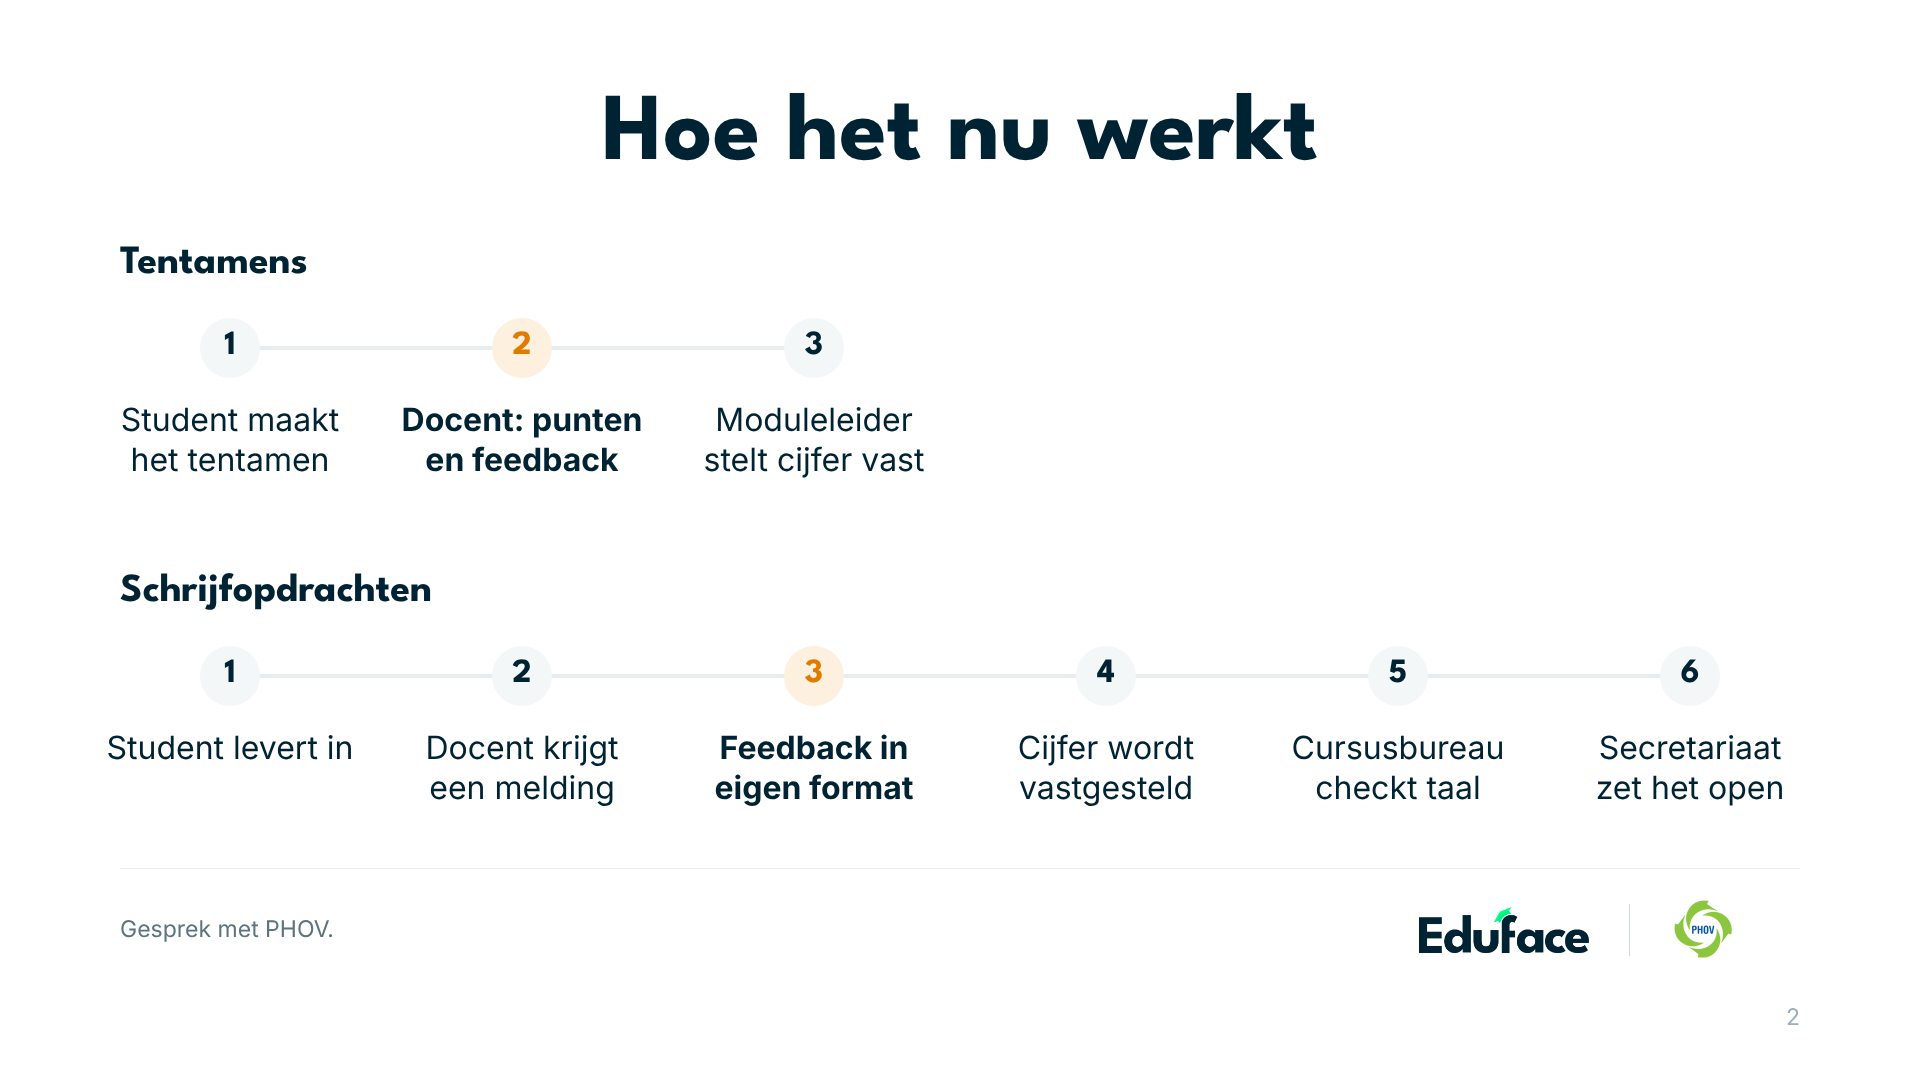
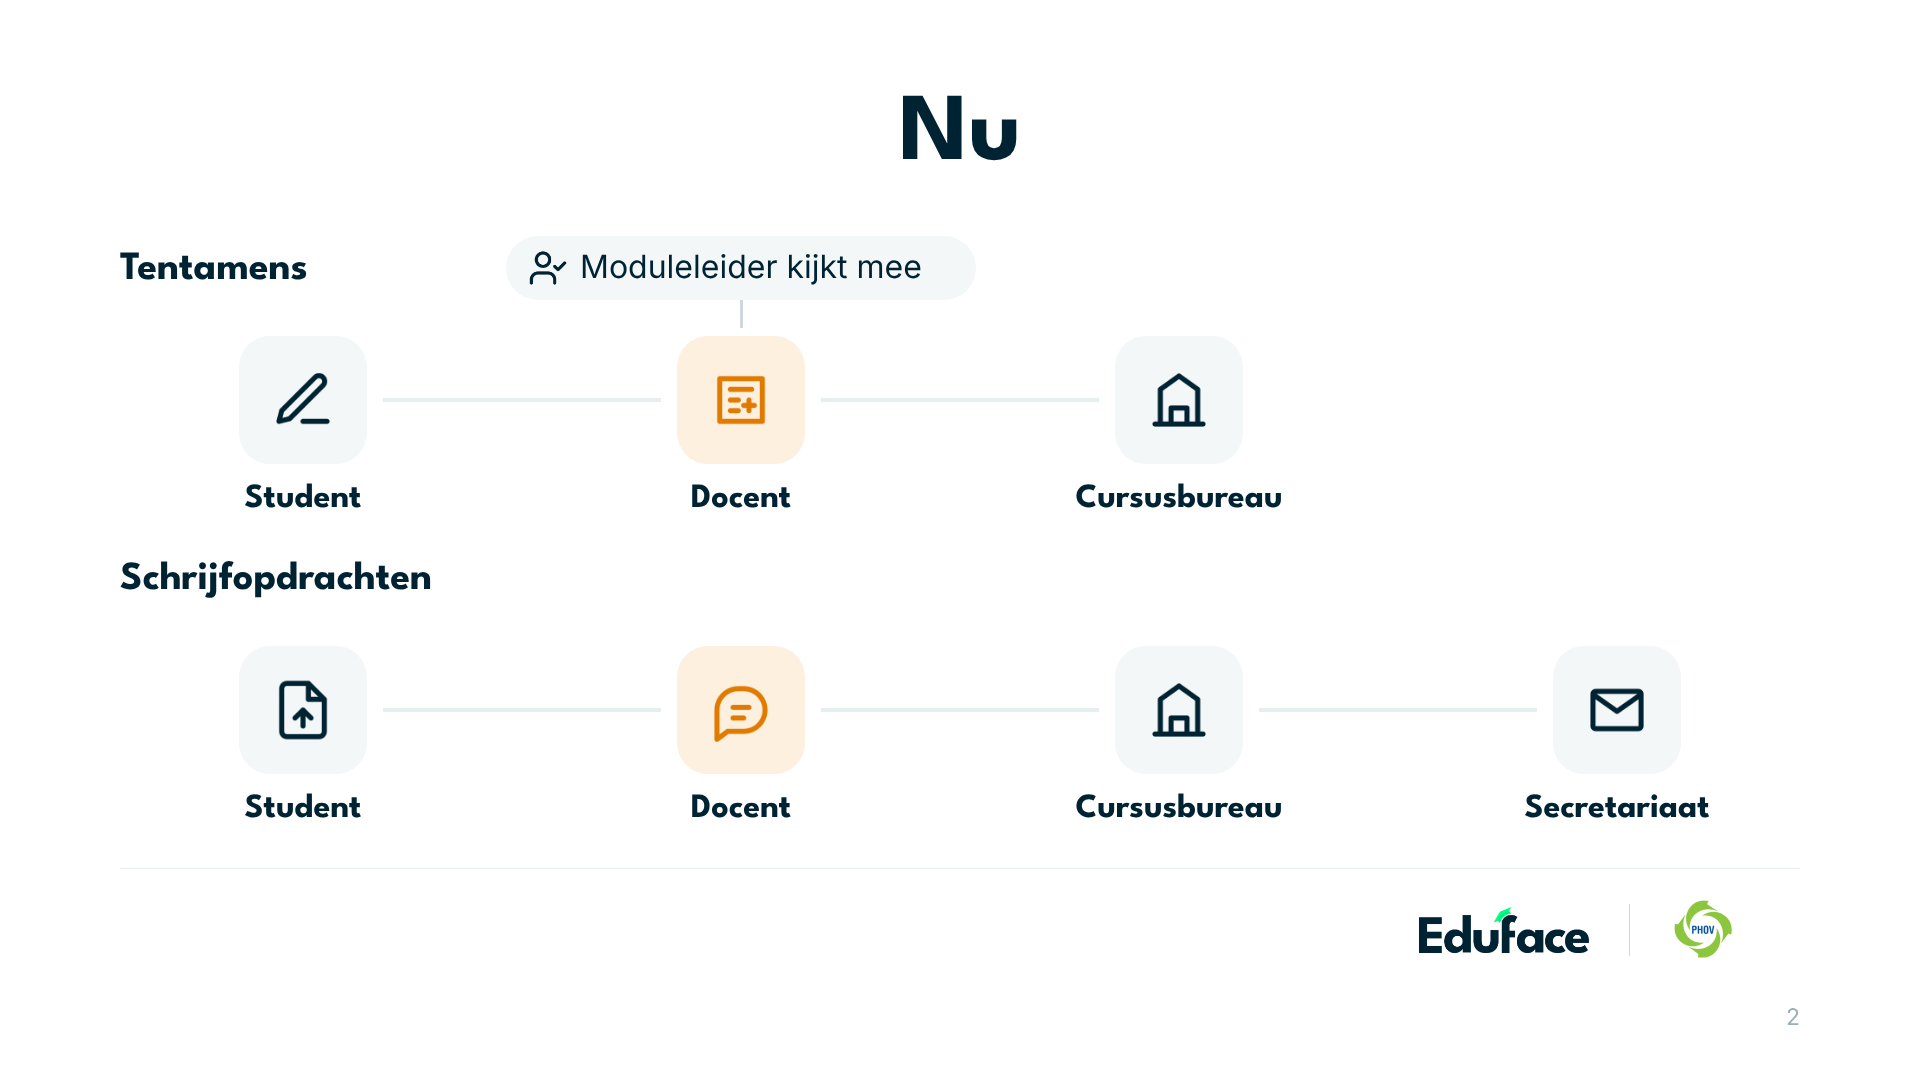
PHOV-deck: slide 2 visueel, titel 'Nu', stappen ingekort
Claude-Session: https://claude.ai/code/session_011t24oQakExxjssoBJFRTe8

diff --git a/GTM/Accounts/phov/deck/preview/02-nu.html b/GTM/Accounts/phov/deck/preview/02-nu.html
@@ -1,9 +1,1 @@
-<!DOCTYPE html><html lang="nl"><head><meta charset="utf-8"><link href="https://fonts.googleapis.com/css2?family=League+Spartan:wght@400;600;700;800&family=Inter:wght@400;500;600;700&display=swap" rel="stylesheet"><style>*{margin:0;padding:0;box-sizing:border-box}html,body{background:#fff}.slide{position:relative;width:1920px;height:1080px;overflow:hidden;background:#fff}</style></head><body><div class="slide"><div style="position:absolute;left:120.0px;top:88.0px;width:1680.0px;height:120.0px;font-family:'League Spartan',sans-serif;font-size:96px;font-weight:700;color:#002333;text-align:center;line-height:1.0;white-space:pre-line">Hoe het nu werkt</div><div style="position:absolute;left:120.0px;top:244.0px;width:600.0px;height:44.0px;font-family:'League Spartan',sans-serif;font-size:40px;font-weight:700;color:#002333;text-align:left;line-height:1.0;white-space:pre-line">Tentamens</div><div style="position:absolute;left:230.0px;top:346.0px;width:584.0px;height:4.0px;background:#E7EEF0;border-radius:0.0px"></div><div style="position:absolute;left:200.0px;top:318.0px;width:60.0px;height:60.0px;background:#F3F7F8;border-radius:50%;box-shadow:0 0 0 0px #002333"></div><div style="position:absolute;left:200.0px;top:329.0px;width:60.0px;height:40.0px;font-family:'League Spartan',sans-serif;font-size:34px;font-weight:700;color:#002333;text-align:center;line-height:1.0;white-space:pre-line">1</div><div style="position:absolute;left:90.0px;top:400.0px;width:280.0px;height:84.0px;font-family:'Inter',sans-serif;font-size:32px;font-weight:400;color:#002333;text-align:center;line-height:1.25;white-space:pre-line">Student maakt
-het tentamen</div><div style="position:absolute;left:492.0px;top:318.0px;width:60.0px;height:60.0px;background:#FDF0DF;border-radius:50%;box-shadow:0 0 0 0px #E07B00"></div><div style="position:absolute;left:492.0px;top:329.0px;width:60.0px;height:40.0px;font-family:'League Spartan',sans-serif;font-size:34px;font-weight:700;color:#E07B00;text-align:center;line-height:1.0;white-space:pre-line">2</div><div style="position:absolute;left:382.0px;top:400.0px;width:280.0px;height:84.0px;font-family:'Inter',sans-serif;font-size:32px;font-weight:700;color:#002333;text-align:center;line-height:1.25;white-space:pre-line">Docent: punten
-en feedback</div><div style="position:absolute;left:784.0px;top:318.0px;width:60.0px;height:60.0px;background:#F3F7F8;border-radius:50%;box-shadow:0 0 0 0px #002333"></div><div style="position:absolute;left:784.0px;top:329.0px;width:60.0px;height:40.0px;font-family:'League Spartan',sans-serif;font-size:34px;font-weight:700;color:#002333;text-align:center;line-height:1.0;white-space:pre-line">3</div><div style="position:absolute;left:674.0px;top:400.0px;width:280.0px;height:84.0px;font-family:'Inter',sans-serif;font-size:32px;font-weight:400;color:#002333;text-align:center;line-height:1.25;white-space:pre-line">Moduleleider
-stelt cijfer vast</div><div style="position:absolute;left:120.0px;top:572.0px;width:600.0px;height:44.0px;font-family:'League Spartan',sans-serif;font-size:40px;font-weight:700;color:#002333;text-align:left;line-height:1.0;white-space:pre-line">Schrijfopdrachten</div><div style="position:absolute;left:230.0px;top:674.0px;width:1460.0px;height:4.0px;background:#E7EEF0;border-radius:0.0px"></div><div style="position:absolute;left:200.0px;top:646.0px;width:60.0px;height:60.0px;background:#F3F7F8;border-radius:50%;box-shadow:0 0 0 0px #002333"></div><div style="position:absolute;left:200.0px;top:657.0px;width:60.0px;height:40.0px;font-family:'League Spartan',sans-serif;font-size:34px;font-weight:700;color:#002333;text-align:center;line-height:1.0;white-space:pre-line">1</div><div style="position:absolute;left:90.0px;top:728.0px;width:280.0px;height:84.0px;font-family:'Inter',sans-serif;font-size:32px;font-weight:400;color:#002333;text-align:center;line-height:1.25;white-space:pre-line">Student levert in</div><div style="position:absolute;left:492.0px;top:646.0px;width:60.0px;height:60.0px;background:#F3F7F8;border-radius:50%;box-shadow:0 0 0 0px #002333"></div><div style="position:absolute;left:492.0px;top:657.0px;width:60.0px;height:40.0px;font-family:'League Spartan',sans-serif;font-size:34px;font-weight:700;color:#002333;text-align:center;line-height:1.0;white-space:pre-line">2</div><div style="position:absolute;left:382.0px;top:728.0px;width:280.0px;height:84.0px;font-family:'Inter',sans-serif;font-size:32px;font-weight:400;color:#002333;text-align:center;line-height:1.25;white-space:pre-line">Docent krijgt
-een melding</div><div style="position:absolute;left:784.0px;top:646.0px;width:60.0px;height:60.0px;background:#FDF0DF;border-radius:50%;box-shadow:0 0 0 0px #E07B00"></div><div style="position:absolute;left:784.0px;top:657.0px;width:60.0px;height:40.0px;font-family:'League Spartan',sans-serif;font-size:34px;font-weight:700;color:#E07B00;text-align:center;line-height:1.0;white-space:pre-line">3</div><div style="position:absolute;left:674.0px;top:728.0px;width:280.0px;height:84.0px;font-family:'Inter',sans-serif;font-size:32px;font-weight:700;color:#002333;text-align:center;line-height:1.25;white-space:pre-line">Feedback in
-eigen format</div><div style="position:absolute;left:1076.0px;top:646.0px;width:60.0px;height:60.0px;background:#F3F7F8;border-radius:50%;box-shadow:0 0 0 0px #002333"></div><div style="position:absolute;left:1076.0px;top:657.0px;width:60.0px;height:40.0px;font-family:'League Spartan',sans-serif;font-size:34px;font-weight:700;color:#002333;text-align:center;line-height:1.0;white-space:pre-line">4</div><div style="position:absolute;left:966.0px;top:728.0px;width:280.0px;height:84.0px;font-family:'Inter',sans-serif;font-size:32px;font-weight:400;color:#002333;text-align:center;line-height:1.25;white-space:pre-line">Cijfer wordt
-vastgesteld</div><div style="position:absolute;left:1368.0px;top:646.0px;width:60.0px;height:60.0px;background:#F3F7F8;border-radius:50%;box-shadow:0 0 0 0px #002333"></div><div style="position:absolute;left:1368.0px;top:657.0px;width:60.0px;height:40.0px;font-family:'League Spartan',sans-serif;font-size:34px;font-weight:700;color:#002333;text-align:center;line-height:1.0;white-space:pre-line">5</div><div style="position:absolute;left:1258.0px;top:728.0px;width:280.0px;height:84.0px;font-family:'Inter',sans-serif;font-size:32px;font-weight:400;color:#002333;text-align:center;line-height:1.25;white-space:pre-line">Cursusbureau
-checkt taal</div><div style="position:absolute;left:1660.0px;top:646.0px;width:60.0px;height:60.0px;background:#F3F7F8;border-radius:50%;box-shadow:0 0 0 0px #002333"></div><div style="position:absolute;left:1660.0px;top:657.0px;width:60.0px;height:40.0px;font-family:'League Spartan',sans-serif;font-size:34px;font-weight:700;color:#002333;text-align:center;line-height:1.0;white-space:pre-line">6</div><div style="position:absolute;left:1550.0px;top:728.0px;width:280.0px;height:84.0px;font-family:'Inter',sans-serif;font-size:32px;font-weight:400;color:#002333;text-align:center;line-height:1.25;white-space:pre-line">Secretariaat
-zet het open</div><div style="position:absolute;left:120.0px;top:868.0px;width:1680.0px;height:1.0px;background:#E7EEF0;border-radius:0.0px"></div><div style="position:absolute;left:120.0px;top:915.0px;width:1320.0px;height:70.0px;font-family:'Inter',sans-serif;font-size:23px;font-weight:400;color:#5B7480;text-align:left;line-height:1.3;white-space:pre-line">Gesprek met PHOV.</div><img src="../assets/logo_navy.png" style="position:absolute;left:1419.0px;top:907.0px;width:170.0px;height:46.0px;object-fit:contain"><div style="position:absolute;left:1629.0px;top:904.0px;width:1.0px;height:52.0px;background:#CDD9DE;border-radius:0.0px"></div><img src="../assets/klant.png" style="position:absolute;left:1670.0px;top:898.0px;width:64.0px;height:64.0px;object-fit:contain"><div style="position:absolute;left:1700.0px;top:1004.0px;width:100.0px;height:36.0px;font-family:'Inter',sans-serif;font-size:23px;font-weight:400;color:#9AAFB8;text-align:right;line-height:1.15;white-space:pre-line">2</div></div></body></html>
+<!DOCTYPE html><html lang="nl"><head><meta charset="utf-8"><link href="https://fonts.googleapis.com/css2?family=League+Spartan:wght@400;600;700;800&family=Inter:wght@400;500;600;700&display=swap" rel="stylesheet"><style>*{margin:0;padding:0;box-sizing:border-box}html,body{background:#fff}.slide{position:relative;width:1920px;height:1080px;overflow:hidden;background:#fff}</style></head><body><div class="slide"><div style="position:absolute;left:120.0px;top:88.0px;width:1680.0px;height:120.0px;font-family:'League Spartan',sans-serif;font-size:96px;font-weight:700;color:#002333;text-align:center;line-height:1.0;white-space:pre-line">Nu</div><div style="position:absolute;left:120.0px;top:250.0px;width:600.0px;height:44.0px;font-family:'League Spartan',sans-serif;font-size:40px;font-weight:700;color:#002333;text-align:left;line-height:1.0;white-space:pre-line">Tentamens</div><div style="position:absolute;left:303.0px;top:398.0px;width:876.0px;height:4.0px;background:#E7EEF0;border-radius:0.0px"></div><div style="position:absolute;left:223.0px;top:330.0px;width:160.0px;height:140.0px;background:#FFFFFF;border-radius:0.0px"></div><div style="position:absolute;left:239.0px;top:336.0px;width:128.0px;height:128.0px;background:#F3F7F8;border-radius:31.1px"></div><img src="../assets/icon-pen-navy.png" style="position:absolute;left:271.0px;top:368.0px;width:64.0px;height:64.0px;object-fit:contain"><div style="position:absolute;left:120.0px;top:482.0px;width:366.0px;height:40.0px;font-family:'League Spartan',sans-serif;font-size:34px;font-weight:700;color:#002333;text-align:center;line-height:1.0;white-space:pre-line">Student</div><div style="position:absolute;left:661.0px;top:330.0px;width:160.0px;height:140.0px;background:#FFFFFF;border-radius:0.0px"></div><div style="position:absolute;left:677.0px;top:336.0px;width:128.0px;height:128.0px;background:#FDF0DF;border-radius:31.1px"></div><img src="../assets/icon-cijfers-amber.png" style="position:absolute;left:709.0px;top:368.0px;width:64.0px;height:64.0px;object-fit:contain"><div style="position:absolute;left:558.0px;top:482.0px;width:366.0px;height:40.0px;font-family:'League Spartan',sans-serif;font-size:34px;font-weight:700;color:#002333;text-align:center;line-height:1.0;white-space:pre-line">Docent</div><div style="position:absolute;left:1099.0px;top:330.0px;width:160.0px;height:140.0px;background:#FFFFFF;border-radius:0.0px"></div><div style="position:absolute;left:1115.0px;top:336.0px;width:128.0px;height:128.0px;background:#F3F7F8;border-radius:31.1px"></div><img src="../assets/icon-instelling-navy.png" style="position:absolute;left:1147.0px;top:368.0px;width:64.0px;height:64.0px;object-fit:contain"><div style="position:absolute;left:996.0px;top:482.0px;width:366.0px;height:40.0px;font-family:'League Spartan',sans-serif;font-size:34px;font-weight:700;color:#002333;text-align:center;line-height:1.0;white-space:pre-line">Cursusbureau</div><div style="position:absolute;left:506.0px;top:236.0px;width:470.0px;height:64.0px;background:#F3F7F8;border-radius:32.0px"></div><img src="../assets/icon-usercheck-navy.png" style="position:absolute;left:528.0px;top:248.0px;width:40.0px;height:40.0px;object-fit:contain"><div style="position:absolute;left:580.0px;top:251.0px;width:386.0px;height:40.0px;font-family:'Inter',sans-serif;font-size:32px;font-weight:400;color:#002333;text-align:left;line-height:1.0;white-space:pre-line">Moduleleider kijkt mee</div><div style="position:absolute;left:739.5px;top:300.0px;width:3.0px;height:28.0px;background:#CDD9DE;border-radius:0.0px"></div><div style="position:absolute;left:120.0px;top:560.0px;width:600.0px;height:44.0px;font-family:'League Spartan',sans-serif;font-size:40px;font-weight:700;color:#002333;text-align:left;line-height:1.0;white-space:pre-line">Schrijfopdrachten</div><div style="position:absolute;left:303.0px;top:708.0px;width:1314.0px;height:4.0px;background:#E7EEF0;border-radius:0.0px"></div><div style="position:absolute;left:223.0px;top:640.0px;width:160.0px;height:140.0px;background:#FFFFFF;border-radius:0.0px"></div><div style="position:absolute;left:239.0px;top:646.0px;width:128.0px;height:128.0px;background:#F3F7F8;border-radius:31.1px"></div><img src="../assets/icon-inleveren-navy.png" style="position:absolute;left:271.0px;top:678.0px;width:64.0px;height:64.0px;object-fit:contain"><div style="position:absolute;left:120.0px;top:792.0px;width:366.0px;height:40.0px;font-family:'League Spartan',sans-serif;font-size:34px;font-weight:700;color:#002333;text-align:center;line-height:1.0;white-space:pre-line">Student</div><div style="position:absolute;left:661.0px;top:640.0px;width:160.0px;height:140.0px;background:#FFFFFF;border-radius:0.0px"></div><div style="position:absolute;left:677.0px;top:646.0px;width:128.0px;height:128.0px;background:#FDF0DF;border-radius:31.1px"></div><img src="../assets/icon-gesprek-amber.png" style="position:absolute;left:709.0px;top:678.0px;width:64.0px;height:64.0px;object-fit:contain"><div style="position:absolute;left:558.0px;top:792.0px;width:366.0px;height:40.0px;font-family:'League Spartan',sans-serif;font-size:34px;font-weight:700;color:#002333;text-align:center;line-height:1.0;white-space:pre-line">Docent</div><div style="position:absolute;left:1099.0px;top:640.0px;width:160.0px;height:140.0px;background:#FFFFFF;border-radius:0.0px"></div><div style="position:absolute;left:1115.0px;top:646.0px;width:128.0px;height:128.0px;background:#F3F7F8;border-radius:31.1px"></div><img src="../assets/icon-instelling-navy.png" style="position:absolute;left:1147.0px;top:678.0px;width:64.0px;height:64.0px;object-fit:contain"><div style="position:absolute;left:996.0px;top:792.0px;width:366.0px;height:40.0px;font-family:'League Spartan',sans-serif;font-size:34px;font-weight:700;color:#002333;text-align:center;line-height:1.0;white-space:pre-line">Cursusbureau</div><div style="position:absolute;left:1537.0px;top:640.0px;width:160.0px;height:140.0px;background:#FFFFFF;border-radius:0.0px"></div><div style="position:absolute;left:1553.0px;top:646.0px;width:128.0px;height:128.0px;background:#F3F7F8;border-radius:31.1px"></div><img src="../assets/icon-mail-navy.png" style="position:absolute;left:1585.0px;top:678.0px;width:64.0px;height:64.0px;object-fit:contain"><div style="position:absolute;left:1434.0px;top:792.0px;width:366.0px;height:40.0px;font-family:'League Spartan',sans-serif;font-size:34px;font-weight:700;color:#002333;text-align:center;line-height:1.0;white-space:pre-line">Secretariaat</div><div style="position:absolute;left:120.0px;top:868.0px;width:1680.0px;height:1.0px;background:#E7EEF0;border-radius:0.0px"></div><img src="../assets/logo_navy.png" style="position:absolute;left:1419.0px;top:907.0px;width:170.0px;height:46.0px;object-fit:contain"><div style="position:absolute;left:1629.0px;top:904.0px;width:1.0px;height:52.0px;background:#CDD9DE;border-radius:0.0px"></div><img src="../assets/klant.png" style="position:absolute;left:1670.0px;top:898.0px;width:64.0px;height:64.0px;object-fit:contain"><div style="position:absolute;left:1700.0px;top:1004.0px;width:100.0px;height:36.0px;font-family:'Inter',sans-serif;font-size:23px;font-weight:400;color:#9AAFB8;text-align:right;line-height:1.15;white-space:pre-line">2</div></div></body></html>

diff --git a/GTM/Accounts/phov/deck/build_deck.py b/GTM/Accounts/phov/deck/build_deck.py
@@ -15,52 +15,49 @@ from deckbuild import (rect, oval, pic, text, title, tile, foot, cols,
 S = []
 def add(naam, els, notes='', dark=False): S.append((naam, els, notes, dark))
 
-# ---------------------------------------------------------------- 2 hoe het nu werkt
-# Twee stroken op hetzelfde zes-kolommenraster, zodat je ziet dat een
-# schrijfopdracht twee keer zoveel stappen heeft als een tentamen.
-# De stappen waar de docent uren maakt staan in amber: dat is slide 3.
-c6, w6 = cols(6)
+# ---------------------------------------------------------------- 2 nu
+# Wie raakt het werk aan, in volgorde. Beide stroken op hetzelfde raster, zodat
+# student, docent en cursusbureau recht onder elkaar staan. De docent staat in
+# amber: daar zitten de uren, dat is slide 3. De rest vertelt Dante erbij.
+c4, w4 = cols(4)
+TS = 128
 
 def strook(y, label, stappen):
     out = [text(M, y, 600, 44, label, font=HEAD, size=40, bold=True, align='left', ls=1.0)]
-    cy = y + 104
-    out.append(rect(c6[0], cy - 2, c6[len(stappen) - 1] - c6[0], 4, INK100))
-    for i, (cx, (lbl, docent)) in enumerate(zip(c6, stappen), 1):
-        kleur = AMBER if docent else NAVY
-        out += [oval(cx - 30, cy - 30, 60, TINT_A if docent else INK50, kleur, 0),
-                text(cx - 30, cy - 19, 60, 40, str(i), font=HEAD, size=34, bold=True,
-                     color=kleur, ls=1.0),
-                text(cx - (w6 + 60) / 2, cy + 52, w6 + 60, 84, lbl, size=32, bold=docent,
-                     color=NAVY, ls=1.25)]
+    ty = y + 86
+    out.append(rect(c4[0], ty + TS / 2 - 2, c4[len(stappen) - 1] - c4[0], 4, INK100))
+    for cx, (ic, rol) in zip(c4, stappen):
+        tone = 'amber' if rol == 'Docent' else 'navy'
+        out += [rect(cx - 80, ty - 6, 160, TS + 12, WHITE)]
+        out += tile(cx, ty, ic, tone, TS)
+        out += [text(cx - w4 / 2, ty + TS + 18, w4, 40, rol, font=HEAD, size=34,
+                     bold=True, color=NAVY, ls=1.0)]
     return out
 
-els = title('Hoe het nu werkt')
-els += strook(244, 'Tentamens', [
-    ('Student maakt\nhet tentamen', False),
-    ('Docent: punten\nen feedback', True),
-    ('Moduleleider\nstelt cijfer vast', False),
-])
-els += strook(572, 'Schrijfopdrachten', [
-    ('Student levert in', False),
-    ('Docent krijgt\neen melding', False),
-    ('Feedback in\neigen format', True),
-    ('Cijfer wordt\nvastgesteld', False),
-    ('Cursusbureau\ncheckt taal', False),
-    ('Secretariaat\nzet het open', False),
-])
-els += foot(src='Gesprek met PHOV.', page=2)
+els = title('Nu')
+els += strook(250, 'Tentamens', [('pen', 'Student'), ('cijfers', 'Docent'),
+                                  ('instelling', 'Cursusbureau')])
+# De moduleleider zit niet in de lijn maar kijkt mee over de schouder van de docent.
+PW, PY = 470, 236
+els += [rect(c4[1] - PW / 2, PY, PW, 64, INK50, r=32),
+        pic('assets/icon-usercheck-navy.png', c4[1] - PW / 2 + 22, PY + 12, 40, 40),
+        text(c4[1] - PW / 2 + 74, PY + 15, PW - 84, 40, 'Moduleleider kijkt mee',
+             size=32, color=NAVY, align='left', ls=1.0),
+        rect(c4[1] - 1.5, PY + 64, 3, 336 - PY - 64 - 8, INK200)]
+els += strook(560, 'Schrijfopdrachten', [('inleveren', 'Student'), ('gesprek', 'Docent'),
+                                         ('instelling', 'Cursusbureau'), ('mail', 'Secretariaat')])
+els += foot(page=2)
 add('02-nu', els, notes="""Tentamens
 1. Studenten maken het tentamen
-2. Het antwoord van de student gaat terug naar de docent, die punten en feedback geeft
-3. De moduleleider controleert en stelt het cijfer vast, daarna gaat het naar het cursusbureau
+2. Het antwoord gaat terug naar de docent, die punten en feedback geeft
+3. Daarna gaat het naar het cursusbureau
+De moduleleider kijkt mee: controleert en stelt het cijfer vast.
 
 Schrijfopdrachten
 1. De student levert in via de leeromgeving (individueel, duo of groep)
-2. De docent krijgt een melding dat hij kan nakijken
-3. Elke docent geeft feedback in zijn eigen format, en elke opdracht heeft weer een ander format. Dat uploadt hij.
-4. Het cijfer wordt vastgesteld
-5. Het cursusbureau kijkt het nog na op taal en rariteiten
-6. Het secretariaat zet het open en de student ziet zijn cijfer en feedback""")
+2. Elke docent geeft feedback in zijn eigen format, en elke opdracht heeft weer een ander format. Dat uploadt hij.
+3. Het cursusbureau kijkt het nog na op taal en rariteiten
+4. Het secretariaat zet het open en de student ziet zijn cijfer en feedback""")
 
 # ---------------------------------------------------------------- render
 alleen = sys.argv[1:]
